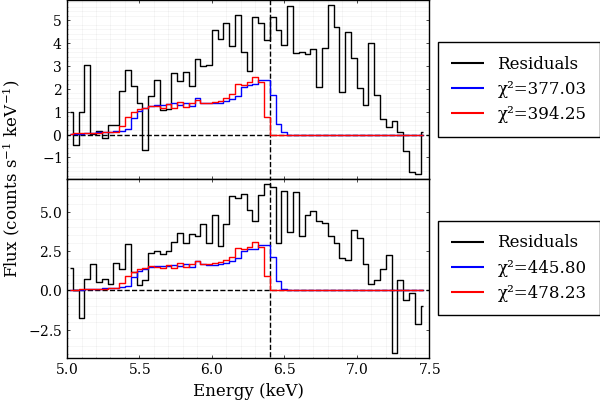
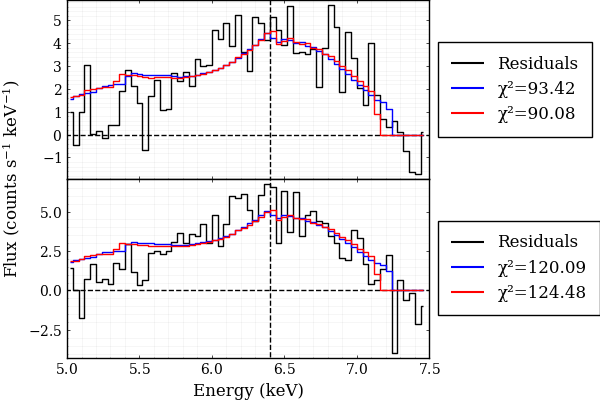
Merged line profile and power law fitting

diff --git a/docs/ParamSpace.html b/docs/ParamSpace.html
@@ -601,6 +601,79 @@ Figure&nbsp;3.10: The effect of black hole spin on the redshift image. The ISCO 
 </figcaption>
 </figure>
 </div>
+<p>Some of the parameters appeared to change the radius of the ISCO. This was investigated by explicitly finding the ISCO, as tabulated below.</p>
+<table class="caption-top table">
+<thead>
+<tr class="header">
+<th>Parameter</th>
+<th>Value</th>
+<th>ISCO (<span class="math inline">\(R_G\)</span>)</th>
+</tr>
+</thead>
+<tbody>
+<tr class="odd">
+<td><span class="math inline">\(\alpha_{13}\)</span></td>
+<td>0.00</td>
+<td>1.24</td>
+</tr>
+<tr class="even">
+<td></td>
+<td>16.67</td>
+<td>8.62</td>
+</tr>
+<tr class="odd">
+<td></td>
+<td>33.33</td>
+<td>11.70</td>
+</tr>
+<tr class="even">
+<td></td>
+<td>50.00</td>
+<td>14.03</td>
+</tr>
+<tr class="odd">
+<td><span class="math inline">\(\epsilon_3\)</span></td>
+<td>0.00</td>
+<td>1.24</td>
+</tr>
+<tr class="even">
+<td></td>
+<td>10.00</td>
+<td>2.36</td>
+</tr>
+<tr class="odd">
+<td></td>
+<td>20.00</td>
+<td>2.90</td>
+</tr>
+<tr class="even">
+<td></td>
+<td>30.00</td>
+<td>3.51</td>
+</tr>
+<tr class="odd">
+<td><span class="math inline">\(a\)</span></td>
+<td>0.00</td>
+<td>6.00</td>
+</tr>
+<tr class="even">
+<td></td>
+<td>0.32</td>
+<td>4.92</td>
+</tr>
+<tr class="odd">
+<td></td>
+<td>0.63</td>
+<td>3.68</td>
+</tr>
+<tr class="even">
+<td></td>
+<td>0.95</td>
+<td>1.94</td>
+</tr>
+</tbody>
+</table>
+<p>The ISCO is proportional to both <span class="math inline">\(\alpha_{13}\)</span> and <span class="math inline">\(\epsilon_3\)</span>, and inversely proportional to the spin.</p>
 </section>
 </section>
 <section id="summary" class="level2" data-number="3.3">
@@ -622,6 +695,7 @@ Figure&nbsp;3.10: The effect of black hole spin on the redshift image. The ISCO 
 <li><span class="math inline">\(\theta\)</span>: Increasing the inclination (where 0 degrees has the accretion disk face-on) smoothes out the line profile and increases the peak energy. The effect of redshift becomes more apparent with increased inclination.</li>
 <li><span class="math inline">\(\alpha_{13}\)</span>: Increasing <span class="math inline">\(\alpha_{13}\)</span> appears to increase the radius of the ISCO and make the line profile sharper.</li>
 <li><span class="math inline">\(\epsilon_3\)</span>: Increasing <span class="math inline">\(\epsilon_3\)</span> increases the height of the line profile, and makes it more chaotic.</li>
+<li>The ISCO is proportional to both <span class="math inline">\(\alpha_{13}\)</span> and <span class="math inline">\(\epsilon_3\)</span>, and inversely proportional to the spin.</li>
 </ul>
 </div>
 </div>
@@ -629,7 +703,7 @@ Figure&nbsp;3.10: The effect of black hole spin on the redshift image. The ISCO 
 <section id="code-specifics" class="level2" data-number="3.4">
 <h2 data-number="3.4" class="anchored" data-anchor-id="code-specifics"><span class="header-section-number">3.4</span> Code Specifics</h2>
 <p>The workhorse of the parameter investigations was the utility function <code>JohannsenParamVar</code> which sets up the metric and observer position and then calls either <code>ComputeLineProfile</code> or <code>RenderImage</code>. This utility function was made versatile using keyword arguments allowing for different methods to be called within it. This was then wrapped in <code>ParamLoop</code> which took the index (the variable to be looped through) and a set of values to call <code>JohannsenParamVar</code> for.</p>
-<p>To maximise readablity of the redshift images, a custom colormap is made through <code>RedshiftColormap</code> which gives red for any values <span class="math inline">\(&lt;1\)</span>, blue for those <span class="math inline">\(&gt;1\)</span>, and white for those <span class="math inline">\(=1\)</span>. This gave the images seen in <a href="#fig-alpha13Render" class="quarto-xref">Figure&nbsp;<span>3.7</span></a> - <a href="#fig-spinRender" class="quarto-xref">Figure&nbsp;<span>3.10</span></a>.</p>
+<p>To maximise readablity of the redshift images, a custom colormap is made through <code>RedshiftColormap</code> which gives red for any values <span class="math inline">\(&lt;1\)</span>, blue for those <span class="math inline">\(&gt;1\)</span>, and white for those <span class="math inline">\(=1\)</span>. This gave the images seen in <a href="#fig-alpha13Render" class="quarto-xref">Figure&nbsp;<span>3.7</span></a>, <a href="#fig-epsilon3Render" class="quarto-xref"><span>3.8</span></a>, <a href="#fig-inclRender" class="quarto-xref"><span>3.9</span></a>, <a href="#fig-spinRender" class="quarto-xref"><span>3.10</span></a>.</p>
 
 
 </section>

diff --git a/docs/FittingData.html b/docs/FittingData.html
@@ -542,11 +542,17 @@ Table&nbsp;5.1: The ranges and default values for the parameter space.
 </figure>
 </div>
 <p>The NuSTAR datasets have two distinct spectra from each telescope, which can be fit simultaneously, binding some of the parameters together. The fitting code was thus adjusted to fit both datasets simultaneously while binding all parameters other than the normalisation. The dataset labelled “nu80402315002” was once again used.</p>
-<div class="quarto-figure quarto-figure-center">
-<figure class="figure">
-<p><a href="images/DualFit.png" class="lightbox" data-gallery="quarto-lightbox-gallery-2"><img src="images/DualFit.png" class="img-fluid quarto-figure quarto-figure-center figure-img"></a></p>
+<div id="fig-DualFit" class="quarto-float quarto-figure quarto-figure-center anchored" data-fig-align="center">
+<figure class="quarto-float quarto-float-fig figure">
+<div aria-describedby="fig-DualFit-caption-0ceaefa1-69ba-4598-a22c-09a6ac19f8ca">
+<a href="images/DualFit.png" class="lightbox" data-gallery="quarto-lightbox-gallery-2" title="Figure&nbsp;5.1: The fits to the nu80402315002 dataset. The Johannsen fit is shown in blue, and the Kerr fit in red."><img src="images/DualFit.png" class="img-fluid quarto-figure quarto-figure-center figure-img"></a>
+</div>
+<figcaption class="quarto-float-caption-bottom quarto-float-caption quarto-float-fig" id="fig-DualFit-caption-0ceaefa1-69ba-4598-a22c-09a6ac19f8ca">
+Figure&nbsp;5.1: The fits to the nu80402315002 dataset. The Johannsen fit is shown in blue, and the Kerr fit in red.
+</figcaption>
 </figure>
 </div>
+<p>It is evident from <a href="#fig-DualFit" class="quarto-xref">Figure&nbsp;<span>5.1</span></a> that the fitting process needs refinement as the fits do not currently fit the data well, and therefore drawing comparisons would be useless.</p>
 
 
 <div id="refs" class="references csl-bib-body" data-entry-spacing="0" role="list" style="display: none">